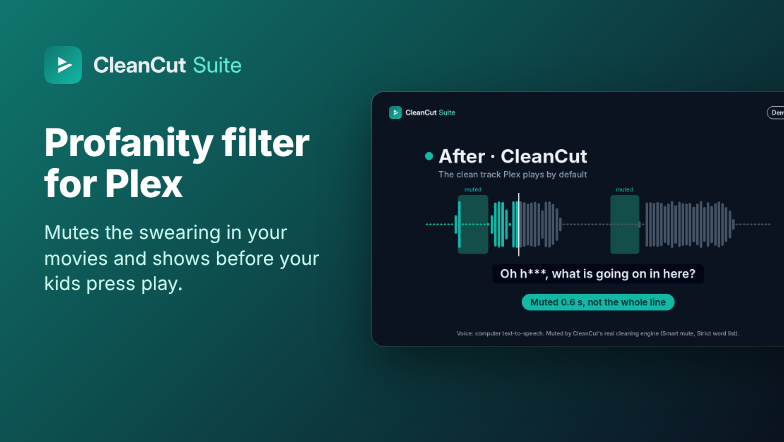
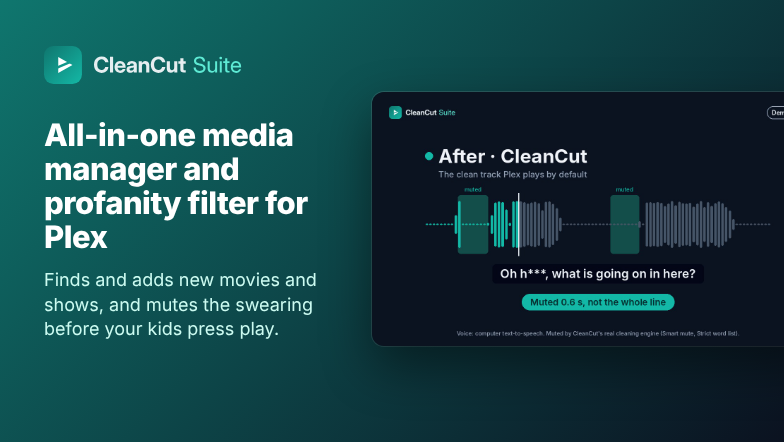
New positioning and launch prices: all-in-one media manager and profanity filter
CleanCut Cleaner $2.99, CleanCut Suite $5.99, Cleaner to Suite $3. Buy once,
yours forever; the price rises for new buyers as features are added. The media
manager is described only as working with sources you add yourself. New
store thumbnail with the new headline.

Claude-Session: https://claude.ai/code/session_01K1BjJbFbBLBDtJR7jQRZM4

Changed region(s): [[0.0306, 0.2647, 0.4286, 0.7059], [0.0612, 0.7353, 0.3673, 0.7647]]

diff --git a/README.md b/README.md
@@ -2,15 +2,19 @@
 
 The app store for **CleanCut Suite** on CasaOS and ZimaOS.
 
-CleanCut Suite is a profanity filter for Plex. It mutes the swearing in the movies and shows on
-your Plex before your kids press play: just the word, not the whole line, and it stars the word
-out in the subtitles too. The original audio stays inside each file as a backup track. Clean
-titles get a Kid Safe label in Plex, so kid profiles only see clean titles within the age limit
-you choose. If you like, CleanCut can also find and download new movies and shows and clean them
-as they arrive (optional, with an optional VPN to keep your home address private). Try it free on
-3 movies and 10 TV episodes, with every feature and no card. Then it's $19.99 once - launch price.
-The price goes up after launch; buy now and it's yours for life, with free updates. There is no
-CleanCut subscription. 30-day money-back guarantee: if CleanCut won't run on your server, or
+**CleanCut Suite: an all-in-one media manager and profanity filter for Plex.** It finds and adds
+new movies and shows, like Radarr, Sonarr and a download client in one app, and works with sources
+you add yourself: no sources are included or enabled by default, and you're responsible for what
+you download. It cleans the language automatically: it mutes just the word, not the whole line,
+stars it out in the subtitles, and listens to the audio when subtitles are missing. The original
+audio stays inside each file as a backup track. Clean titles get a Kid Safe label in Plex, so kid
+profiles only see clean titles within the age limit you choose, and there's an optional built-in
+VPN with a kill switch. CleanCut Cleaner is just the cleaning, for media you already have.
+
+Try it free on 3 movies and 10 TV episodes, with every feature and no card. Then it's **$2.99**
+(CleanCut Cleaner) or **$5.99** (CleanCut Suite), once; Cleaner to Suite later is $3. These are
+launch prices: the price rises for new buyers as features are added, and if you've bought, it's
+yours forever, with free updates. There is no CleanCut subscription. 30-day money-back guarantee: if CleanCut won't run on your server, or
 doesn't do what its page says, email ethen@harrelsons.org within 30 days and we'll refund you in
 full.
 
